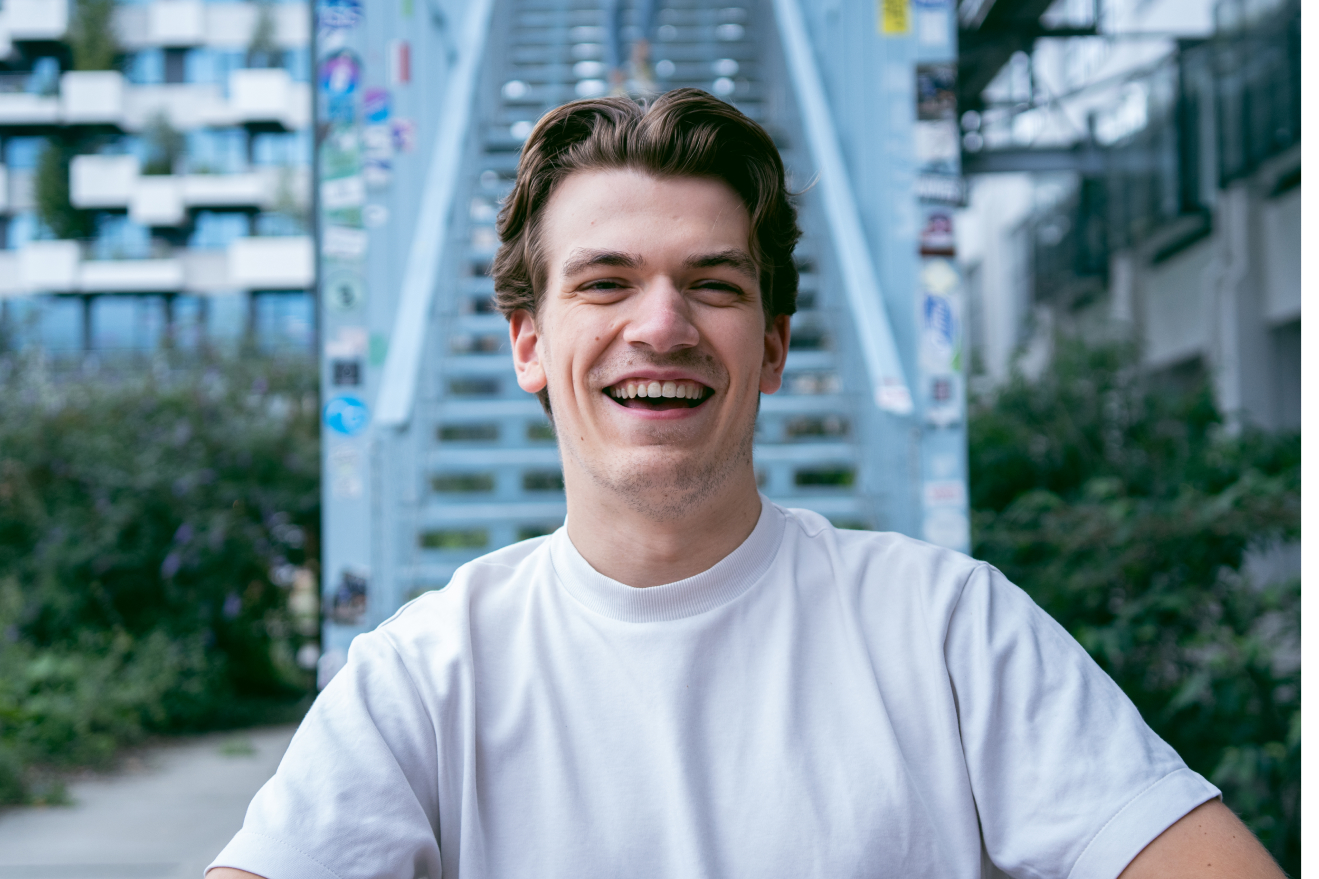
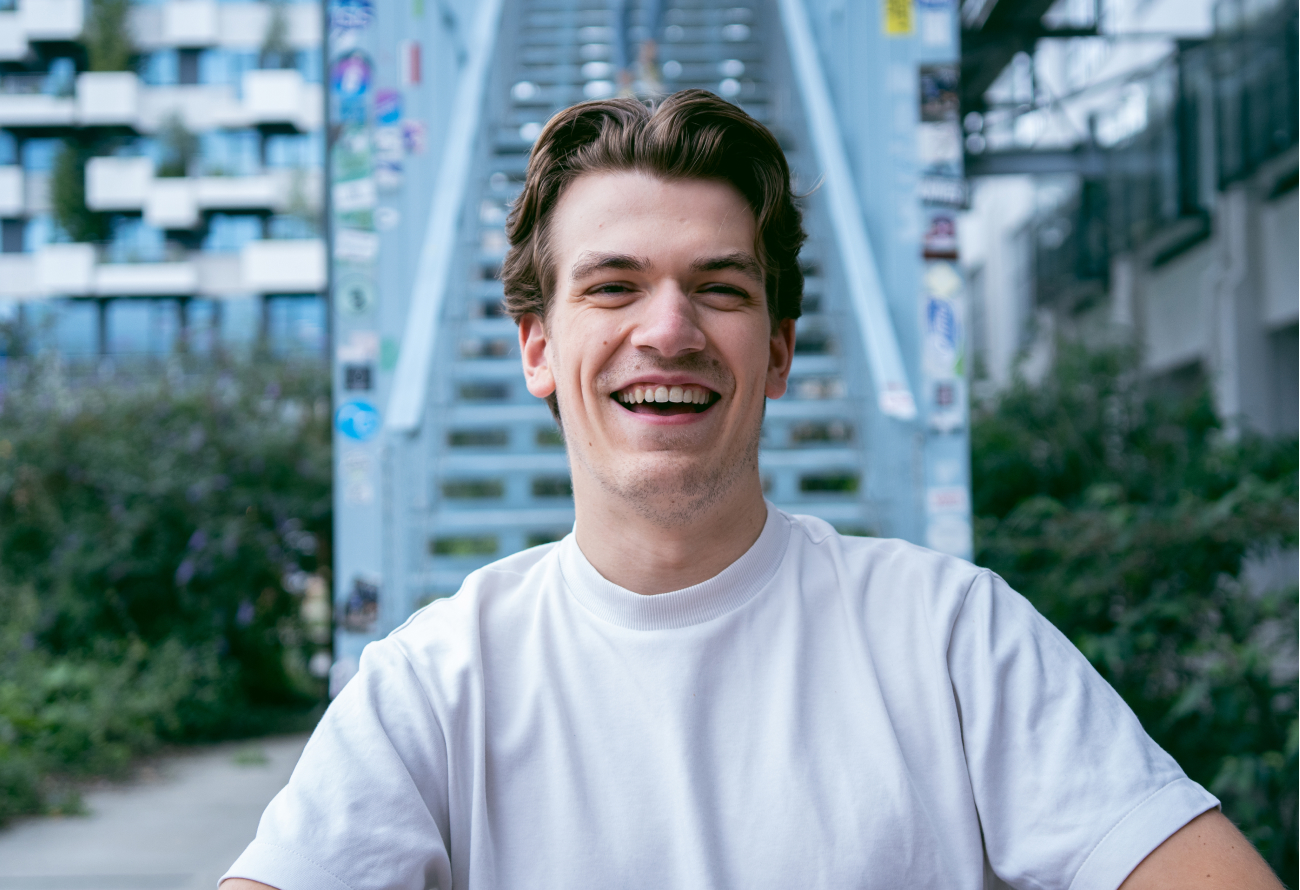
Add temporary hero placeholder and add about image square

diff --git a/components/About/About.tsx b/components/About/About.tsx
@@ -1,5 +1,6 @@
 // Components==============
 import { user } from 'database/user';
+import { m } from 'framer-motion';
 import Anker from 'global_components/Anker/Anker';
 import ChapterTitle from 'global_components/ChapterTitle/ChapterTitle';
 import Container from 'global_components/Container/Container';
@@ -9,6 +10,35 @@ import Image from 'next/image';
 import { useRef, useState } from 'react';
 import styles from './About.module.scss';
 // =========================
+
+const squareVariants = {
+  initial: { y: 0, x: 0, opacity: 0 },
+  animate: { y: 15, x: 15, opacity: 1 },
+  hover: { y: 0, x: 0, opacity: [1, 0, 0, 0] },
+};
+
+function Images({ selectedImage }: { selectedImage: number }) {
+  return (
+    <m.div
+      className={styles.image}
+      initial="initial"
+      whileInView="animate"
+      whileHover="hover"
+      viewport={{ amount: 1, once: true }}
+    >
+      <Image
+        src={user.images[selectedImage]}
+        placeholder="blur"
+        alt="Roland Branten"
+      />
+      <m.div
+        className={styles.square}
+        transition={{ type: 'spring', stiffness: 220, damping: 14 }}
+        variants={squareVariants}
+      />
+    </m.div>
+  );
+}
 
 export default function About() {
   const [selectedText, setSelectedText] = useState(1);
@@ -41,30 +71,14 @@ export default function About() {
                 {user.imageTitles[selectedImage][locale]}
               </span>
             </h2>
-            {!query && (
-              <div className={styles.image}>
-                <Image
-                  src={user.images[selectedImage]}
-                  placeholder="blur"
-                  alt="Roland Branten"
-                />
-              </div>
-            )}
+            {!query && <Images selectedImage={selectedImage} />}
             <div className={styles.text}>
               {user.about[selectedText].map((text, i) => (
                 <p key={i}>{text[locale]}</p>
               ))}
             </div>
           </div>
-          {query && (
-            <div className={styles.image}>
-              <Image
-                src={user.images[selectedImage]}
-                placeholder="blur"
-                alt="Roland Branten"
-              />
-            </div>
-          )}
+          {query && <Images selectedImage={selectedImage} />}
         </div>
       </Container>
     </>

diff --git a/components/Hero/Hero.tsx b/components/Hero/Hero.tsx
@@ -1,29 +1,16 @@
 // Components==============
-import { m } from 'framer-motion';
 import Anker from 'global_components/Anker/Anker';
 import ChapterTitle from 'global_components/ChapterTitle/ChapterTitle';
 import { useLocale } from 'hooks/useLocale';
 import Image from 'next/image';
-import heroImage from 'public/images/hero.jpg';
-import { useRef, useState } from 'react';
+import heroImage from 'public/images/hero.png';
+import { useRef } from 'react';
 import Curl from './Curl/Curl';
 import styles from './Hero.module.scss';
 // =========================
 
-const imageVariants = {
-  initial: { y: -50, opacity: 0 },
-  animate: { y: 0, opacity: 1 },
-};
-
-const squareVariants = {
-  initial: { y: 0, x: 0, opacity: 0 },
-  animate: { y: 20, x: 20, opacity: 1 },
-  hover: { y: 0, x: 0, opacity: [1, 0, 0, 0] },
-};
-
 export default function Hero() {
   const { t } = useLocale();
-  const [mounted, setMounted] = useState(false);
   const ref = useRef(null);
 
   return (
@@ -45,34 +32,14 @@ export default function Hero() {
           <h1 className={styles.name}>Roland Branten</h1>
           <Curl />
         </div>
-        <m.div
-          className={styles['image-wrapper']}
-          initial="initial"
-          animate="animate"
-          onHoverStart={() => setMounted(true)}
-          whileHover="hover"
-          variants={{
-            animate: {
-              transition: {
-                staggerChildren: mounted ? 0 : 0.3,
-              },
-            },
-          }}
-        >
-          <m.div variants={imageVariants} className={styles.image}>
-            <Image
-              src={heroImage}
-              placeholder="blur"
-              alt="Roland Branten"
-              quality={100}
-            />
-          </m.div>
-          <m.div
-            className={styles.square}
-            transition={{ type: 'spring', stiffness: 220, damping: 14 }}
-            variants={squareVariants}
+        <div className={styles.image}>
+          <Image
+            src={heroImage}
+            placeholder="blur"
+            alt="Roland Branten"
+            quality={100}
           />
-        </m.div>
+        </div>
       </div>
     </>
   );

diff --git a/components/Hero/Hero.module.scss b/components/Hero/Hero.module.scss
@@ -55,20 +55,15 @@
     }
   }
 
-  .image-wrapper {
-    display: grid;
-    position: relative;
+  .image {
+    justify-self: center;
     margin-right: $spacing6;
     max-width: 360px;
-    justify-self: center;
-
-    @media screen and (min-width: $tablet) {
-      justify-self: end;
-    }
 
     @media screen and (min-width: $desktop) {
       justify-self: initial;
       margin-right: initial;
+      transform: translateY(-100px);
     }
 
     @media screen and (min-width: $desktop-large) {
@@ -81,16 +76,6 @@
 
     .image {
       display: grid;
-    }
-
-    .square {
-      position: absolute;
-      z-index: -1;
-      top: 0;
-      left: 0;
-      width: 100%;
-      height: 100%;
-      background-color: $green-light;
     }
   }
 }

diff --git a/components/About/About.module.scss b/components/About/About.module.scss
@@ -26,12 +26,25 @@
   }
 
   .image {
-    width: 100%;
-    margin-bottom: $spacing4;
+    width: calc(100% - $spacing4);
+    margin-bottom: $spacing8;
+    position: relative;
+    display: grid;
 
     @media screen and (min-width: $tablet) {
+      width: 100%;
       max-width: 365px;
       margin-bottom: 0;
+    }
+
+    .square {
+      position: absolute;
+      z-index: -1;
+      top: 0;
+      left: 0;
+      width: 100%;
+      height: 100%;
+      background-color: $green-light;
     }
   }
 }
